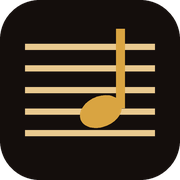
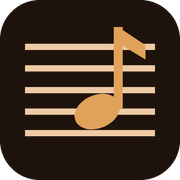
Icône du site aux nouvelles couleurs
- Favicons régénérés (croche ambre sur portée, fond expresso) : .ico 16/32/48,
  PNG 32, 192, 512 et apple-touch-icon 180
- Chemins relatifs pour qu'ils marchent partout, manifeste web, theme-color

Changed region(s): [[0.3889, 0.1389, 0.8333, 0.7222]]

diff --git a/index.html b/index.html
@@ -20,10 +20,11 @@
 <meta name="twitter:title" content="Abidjan Symphony">
 <meta name="twitter:description" content="Masterclass et premier ciné-concert de Côte d'Ivoire. 13.11.2026, YELAMS, Abidjan.">
 <meta name="twitter:image" content="https://abidjansymphony.netlify.app/og-image.png">
-<link rel="icon" href="/favicon.ico" sizes="any">
-<link rel="icon" type="image/png" sizes="32x32" href="/favicon-32.png">
-<link rel="icon" type="image/png" sizes="192x192" href="/favicon-192.png">
-<link rel="apple-touch-icon" href="/apple-touch-icon.png">
+<link rel="icon" href="favicon.ico" sizes="any">
+<link rel="icon" type="image/png" sizes="32x32" href="favicon-32.png">
+<link rel="icon" type="image/png" sizes="192x192" href="favicon-192.png">
+<link rel="apple-touch-icon" href="apple-touch-icon.png">
+<link rel="manifest" href="site.webmanifest">
 <script type="application/ld+json">
 {"@context":"https://schema.org","@type":"WebSite","name":"Abidjan Symphony","url":"https://abidjansymphony.netlify.app/","inLanguage":"fr"}
 </script>
